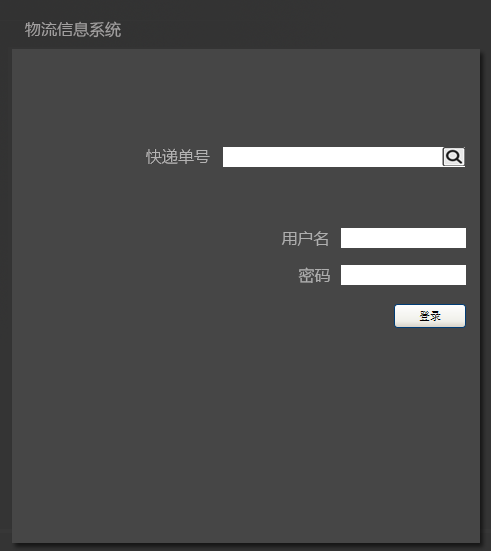
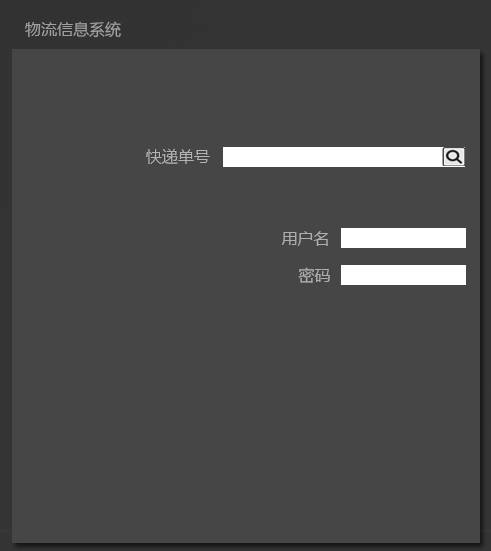
user&declare

Changed region(s): [[0.7943, 0.5245, 0.947, 0.6171]]

diff --git a/ExpressSystem/client/src/main/java/nju/sec/yz/ExpressSystem/presentation/userui/UserUi.java b/ExpressSystem/client/src/main/java/nju/sec/yz/ExpressSystem/presentation/userui/UserUi.java
@@ -6,8 +6,8 @@ import java.awt.Graphics;
 import java.awt.Image;
 import java.awt.event.MouseAdapter;
 import java.awt.event.MouseEvent;
-import java.awt.event.MouseListener;
 
+import javax.swing.BorderFactory;
 import javax.swing.ImageIcon;
 import javax.swing.JButton;
 import javax.swing.JLabel;
@@ -16,14 +16,13 @@ import javax.swing.JPasswordField;
 import javax.swing.JTextField;
 
 import nju.sec.yz.ExpressSystem.bl.deliverbl.DeliverController;
-import nju.sec.yz.ExpressSystem.bl.userbl.User;
 import nju.sec.yz.ExpressSystem.bl.userbl.UserController;
 import nju.sec.yz.ExpressSystem.blservice.deliverBlService.DeliverBlService;
 import nju.sec.yz.ExpressSystem.blservice.userBlService.UserBlService;
 import nju.sec.yz.ExpressSystem.common.Result;
+import nju.sec.yz.ExpressSystem.presentation.componentui.newJBut;
+import nju.sec.yz.ExpressSystem.presentation.componentui.newJLabel;
 import nju.sec.yz.ExpressSystem.presentation.controlerui.ClientControler;
-import nju.sec.yz.ExpressSystem.presentation.controlerui.DELIVER_CONTROL;
-import nju.sec.yz.ExpressSystem.presentation.controlerui.DeliverSwitchPanelListener;
 import nju.sec.yz.ExpressSystem.presentation.controlerui.MAIN_CONTROL;
 import nju.sec.yz.ExpressSystem.presentation.controlerui.MainSwitchPanelListener;
 
@@ -58,11 +57,11 @@ public class UserUi extends JPanel{
 	private JTextField JTbarId;
 	private JTextField JTuserName;
 	private JPasswordField JTpassword;
-	private JButton login;
+	private newJBut login;
 	private JButton search;
-	private JLabel warning;
+	private newJLabel warning;
 	
-	private ImageIcon login_button=new ImageIcon("graphic/main/button/login_button.png");
+//	private ImageIcon login_button=new ImageIcon("graphic/main/button/login_button.png");
 	private ImageIcon search_button=new ImageIcon("graphic/main/button/search_button.png");
 	private Image background = new ImageIcon("graphic/main/background/main_background.png").getImage();
 	// 退出系统
@@ -81,26 +80,28 @@ public class UserUi extends JPanel{
 		this.setLayout(null);
 		this.setSize(B_WIDTH,B_HEIGHT);
 
-		this.warning=new JLabel();
-		this.warning.setFont(new Font("Dialog",1,12));
+		this.warning=new newJLabel();
 		this.warning.setForeground(Color.red);
 		this.warning.setBounds(warning_x,warning_y,warning_w,height);
 		this.add(warning);
 		this.warning.setVisible(false);
 		
 		this.JTbarId=new JTextField();
+		JTbarId.setBorder(BorderFactory.createLineBorder(Color.white,0));
 		this.JTbarId.setBounds(searchin_x,searchin_y,searchin_w,height);
 		this.add(JTbarId);
 		
 		this.JTuserName=new JTextField();
+		JTuserName.setBorder(BorderFactory.createLineBorder(Color.white,0));
 		this.JTuserName.setBounds(username_x,username_y,username_w,height);
 		this.add(JTuserName);
 		
 		this.JTpassword=new JPasswordField();
+		JTpassword.setBorder(BorderFactory.createLineBorder(Color.white,0));
 		this.JTpassword.setBounds(password_x,password_y,password_w,height);
 		this.add(JTpassword);
 		
-		this.login=new JButton(login_button);
+		this.login=new newJBut("登录");
 		this.login.setBounds(login_x,login_y,login_w, height);
 		this.login.addMouseListener(new MouseAdapter() {
 			public void mouseClicked(MouseEvent e) {
@@ -155,6 +156,7 @@ public class UserUi extends JPanel{
 		this.add(login);
 		
 		this.search=new JButton(search_button);
+		search.setBorderPainted(false);
 		this.search.setBounds(search_x,search_y,search_w, height);
 		this.search.addMouseListener(new MouseAdapter(){
 			public void mouseClicked(MouseEvent e) {

diff --git a/ExpressSystem/client/src/main/java/nju/sec/yz/ExpressSystem/presentation/userui/UserOrderSearchUi.java b/ExpressSystem/client/src/main/java/nju/sec/yz/ExpressSystem/presentation/userui/UserOrderSearchUi.java
@@ -1,39 +1,26 @@
 package nju.sec.yz.ExpressSystem.presentation.userui;
 
 import java.awt.Color;
-import java.awt.Dimension;
-import java.awt.Font;
 import java.awt.Graphics;
 import java.awt.Image;
 import java.awt.event.MouseAdapter;
 import java.awt.event.MouseEvent;
-import java.util.ArrayList;
 import java.util.List;
 import java.util.Vector;
 
+import javax.swing.BorderFactory;
 import javax.swing.ImageIcon;
 import javax.swing.JButton;
-import javax.swing.JFrame;
-import javax.swing.JLabel;
 import javax.swing.JPanel;
-import javax.swing.JScrollPane;
-import javax.swing.JTable;
 import javax.swing.JTextField;
-import javax.swing.table.JTableHeader;
-import javax.swing.table.TableColumn;
 
-import nju.sec.yz.ExpressSystem.bl.deliverbl.Deliver;
 import nju.sec.yz.ExpressSystem.bl.deliverbl.DeliverController;
 import nju.sec.yz.ExpressSystem.blservice.deliverBlService.DeliverBlService;
-import nju.sec.yz.ExpressSystem.common.GoodInformation;
-import nju.sec.yz.ExpressSystem.common.OrderInformation;
-import nju.sec.yz.ExpressSystem.common.SendInformation;
-import nju.sec.yz.ExpressSystem.common.ToAndFromInformation;
+import nju.sec.yz.ExpressSystem.presentation.componentui.newJLabel;
 import nju.sec.yz.ExpressSystem.presentation.componentui.newTable;
 import nju.sec.yz.ExpressSystem.presentation.controlerui.ClientControler;
 import nju.sec.yz.ExpressSystem.presentation.controlerui.MAIN_CONTROL;
 import nju.sec.yz.ExpressSystem.vo.DeliverVO;
-import nju.sec.yz.ExpressSystem.vo.OrderVO;
 
 public class UserOrderSearchUi extends JPanel {
 	ClientControler mainControler;
@@ -42,11 +29,11 @@ public class UserOrderSearchUi extends JPanel {
 	private JButton confirmButton;
 	private JTextField searchnumber;
 	//提示信息
-	private JLabel warning;
+	private newJLabel warning;
 	// 退出系统
 	private JButton exitButton;
 	//退出当前帐户
-	private JLabel leaveButton;
+	private newJLabel leaveButton;
 	
 	private newTable table;
 	private Vector<Vector<String>> data=new Vector<Vector<String>>();
@@ -76,11 +63,11 @@ public class UserOrderSearchUi extends JPanel {
 
 		confirmButton = new JButton(SearchIcon);
 		confirmButton.setBounds(441, 72, 23, 21);
+		confirmButton.setBorderPainted(false);
 		add(confirmButton);
 
-		warning=new JLabel();
+		warning=new newJLabel();
 		warning.setBounds(250,490,100,30);
-		warning.setFont(new Font("Dialog",1,15));
 		warning.setForeground(Color.red);
 		warning.setVisible(false);
 		add(warning);
@@ -100,11 +87,12 @@ public class UserOrderSearchUi extends JPanel {
 			});
 		
 		searchnumber = new JTextField();
+		searchnumber.setBorder(BorderFactory.createLineBorder(Color.white,0));
 		searchnumber.setBounds(221, 72, 219, 20);
 		add(searchnumber);
 		
 		//离开当前账户
-		leaveButton=new JLabel();
+		leaveButton=new newJLabel("注销",Color.white,Color.yellow);
 		leaveButton.setBounds(433, 21, 37, 20);
 		add(leaveButton);			
 		

diff --git a/ExpressSystem/client/src/main/java/nju/sec/yz/ExpressSystem/presentation/componentui/MessageDeclare.java b/ExpressSystem/client/src/main/java/nju/sec/yz/ExpressSystem/presentation/componentui/MessageDeclare.java
@@ -20,7 +20,7 @@ import nju.sec.yz.ExpressSystem.vo.MessageVO;
 
 public class MessageDeclare {
 
-	private JTextArea announce;
+	private JTextArea announce=new JTextArea();
 	private JLabel confirm;
 	private JScrollPane jsc;
 	
@@ -31,20 +31,17 @@ public class MessageDeclare {
 	public MessageDeclare(JPanel panel){
 		
 		initTextArea();
-//		
-//		for(int c=0;c<20;c++){
-//			announce.append("!!!!!!!!!!!!!!!!!!!!!!!!!!!!\r\n");
-//		}
-//		
+		
+		
 		jsc=new newJScroll(announce);
 		jsc.setBounds(154,84,292,180);
 		jsc.setHorizontalScrollBarPolicy(JScrollPane.HORIZONTAL_SCROLLBAR_ALWAYS);
 		jsc.setVerticalScrollBarPolicy( JScrollPane.VERTICAL_SCROLLBAR_ALWAYS); 
-		jsc.setHorizontalScrollBarPolicy(ScrollPaneConstants.HORIZONTAL_SCROLLBAR_NEVER);
-//		table.setAutoResizeMode(javax.swing.JTable.AUTO_RESIZE_OFF);
-      
+		jsc.setHorizontalScrollBarPolicy(ScrollPaneConstants.HORIZONTAL_SCROLLBAR_AS_NEEDED);
 		panel.add(jsc);
 		
+		announce.setVisible(true);
+		jsc.setVisible(true);
 		
 		ImageIcon IknowIcon=new ImageIcon("graphic/common/Iknow.png");
 		confirm=new newJLabel("我知道了",Color.YELLOW,Color.RED);
@@ -65,7 +62,7 @@ public class MessageDeclare {
 	private void initTextArea(){
 		volist=(ArrayList<MessageVO>) message.getNewMessages();
 		
-		announce=new JTextArea(volist.size(),21);
+		announce.setText("");
 		announce.setBorder(BorderFactory.createLineBorder(Color.WHITE,0));
 		
 		announce.setForeground(Color.LIGHT_GRAY);
@@ -76,6 +73,8 @@ public class MessageDeclare {
 		for(int c=0;c<volist.size();c++){
 			announce.append(volist.get(c).message);
 		}
+		
+		announce.repaint();
 		
 	}
 }

diff --git a/ExpressSystem/client/src/main/java/nju/sec/yz/ExpressSystem/presentation/positionui/PositionMainUi.java b/ExpressSystem/client/src/main/java/nju/sec/yz/ExpressSystem/presentation/positionui/PositionMainUi.java
@@ -22,6 +22,7 @@ public class PositionMainUi extends JPanel{
 		controler=mainControler.positionControler;
 		this.bc=bc;
 		initPositionMainUi();
+		setVisible(true);
 	}
 
 	private void initPositionMainUi() {
@@ -29,7 +30,7 @@ public class PositionMainUi extends JPanel{
 		bc.init();
 		setLayout(null);
 		setSize(490, 550);
-		setVisible(true);
+		
 
 
 		//显示消息列表

diff --git a/ExpressSystem/client/src/main/java/nju/sec/yz/ExpressSystem/presentation/controlerui/ClientControler.java b/ExpressSystem/client/src/main/java/nju/sec/yz/ExpressSystem/presentation/controlerui/ClientControler.java
@@ -87,6 +87,7 @@ public class ClientControler{
 			System.out.println("wrong state");
 			break;
 		}
+		mainFrame.setVisible(true);
 	}
 	public static void main(String[] args)
 	{
